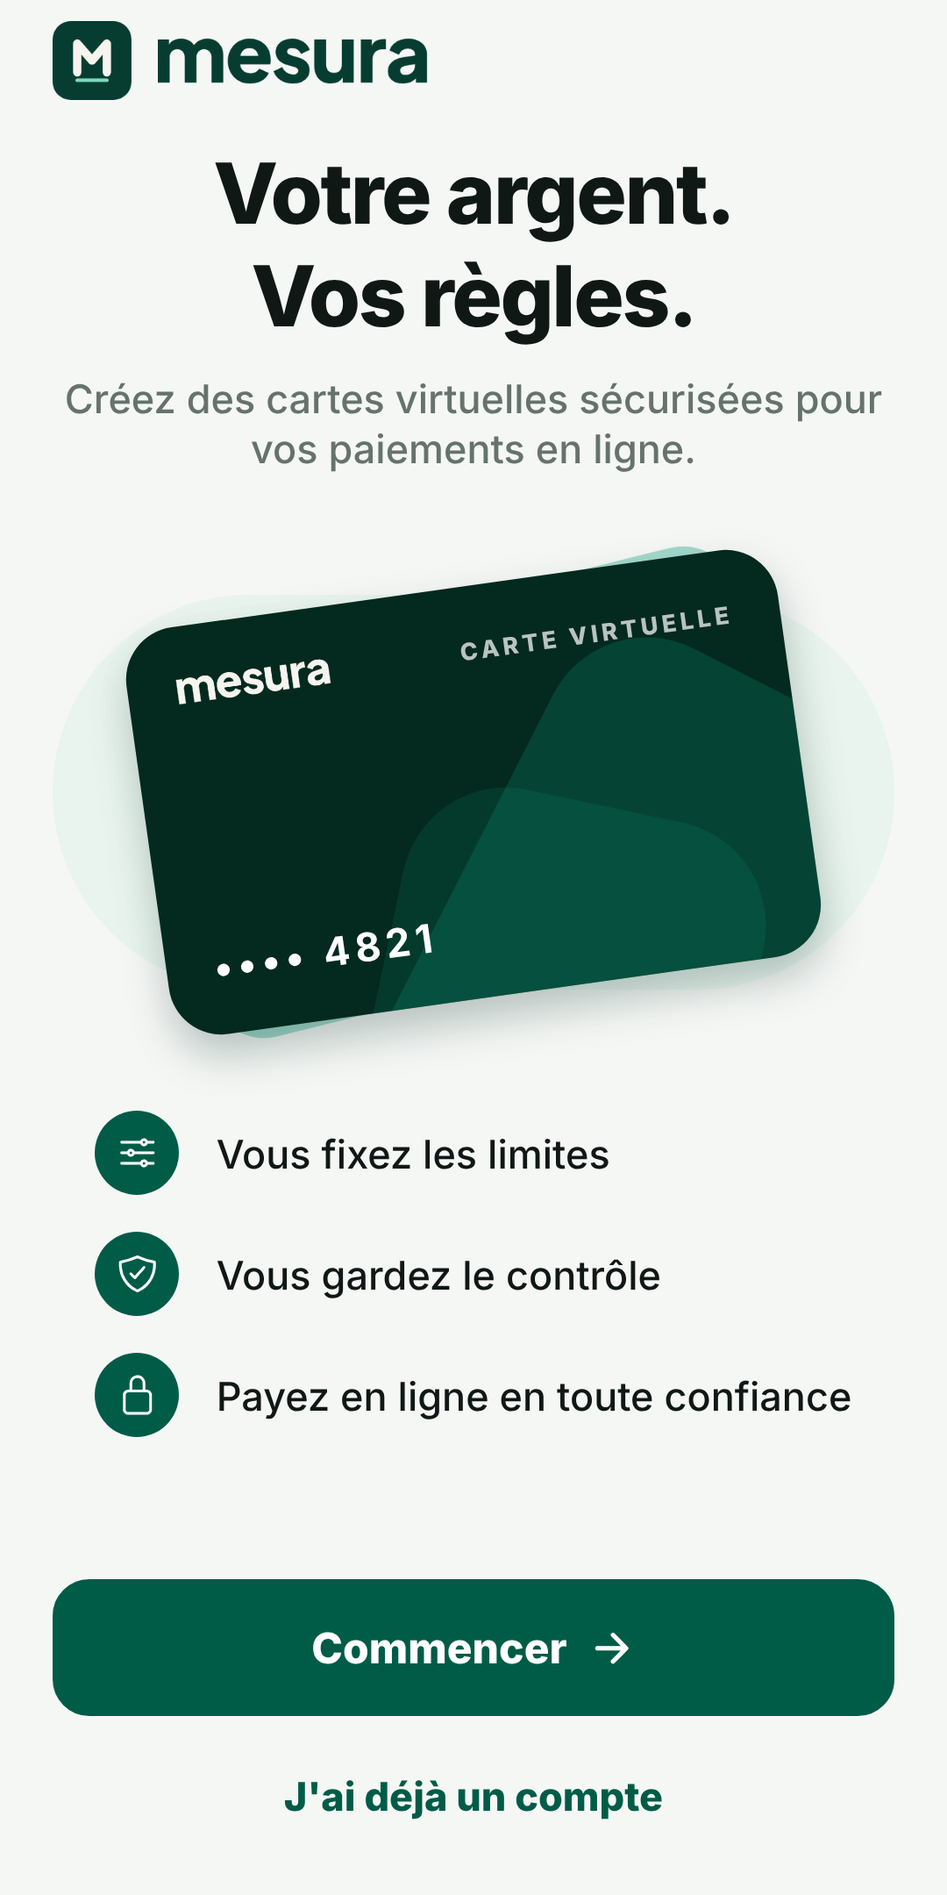
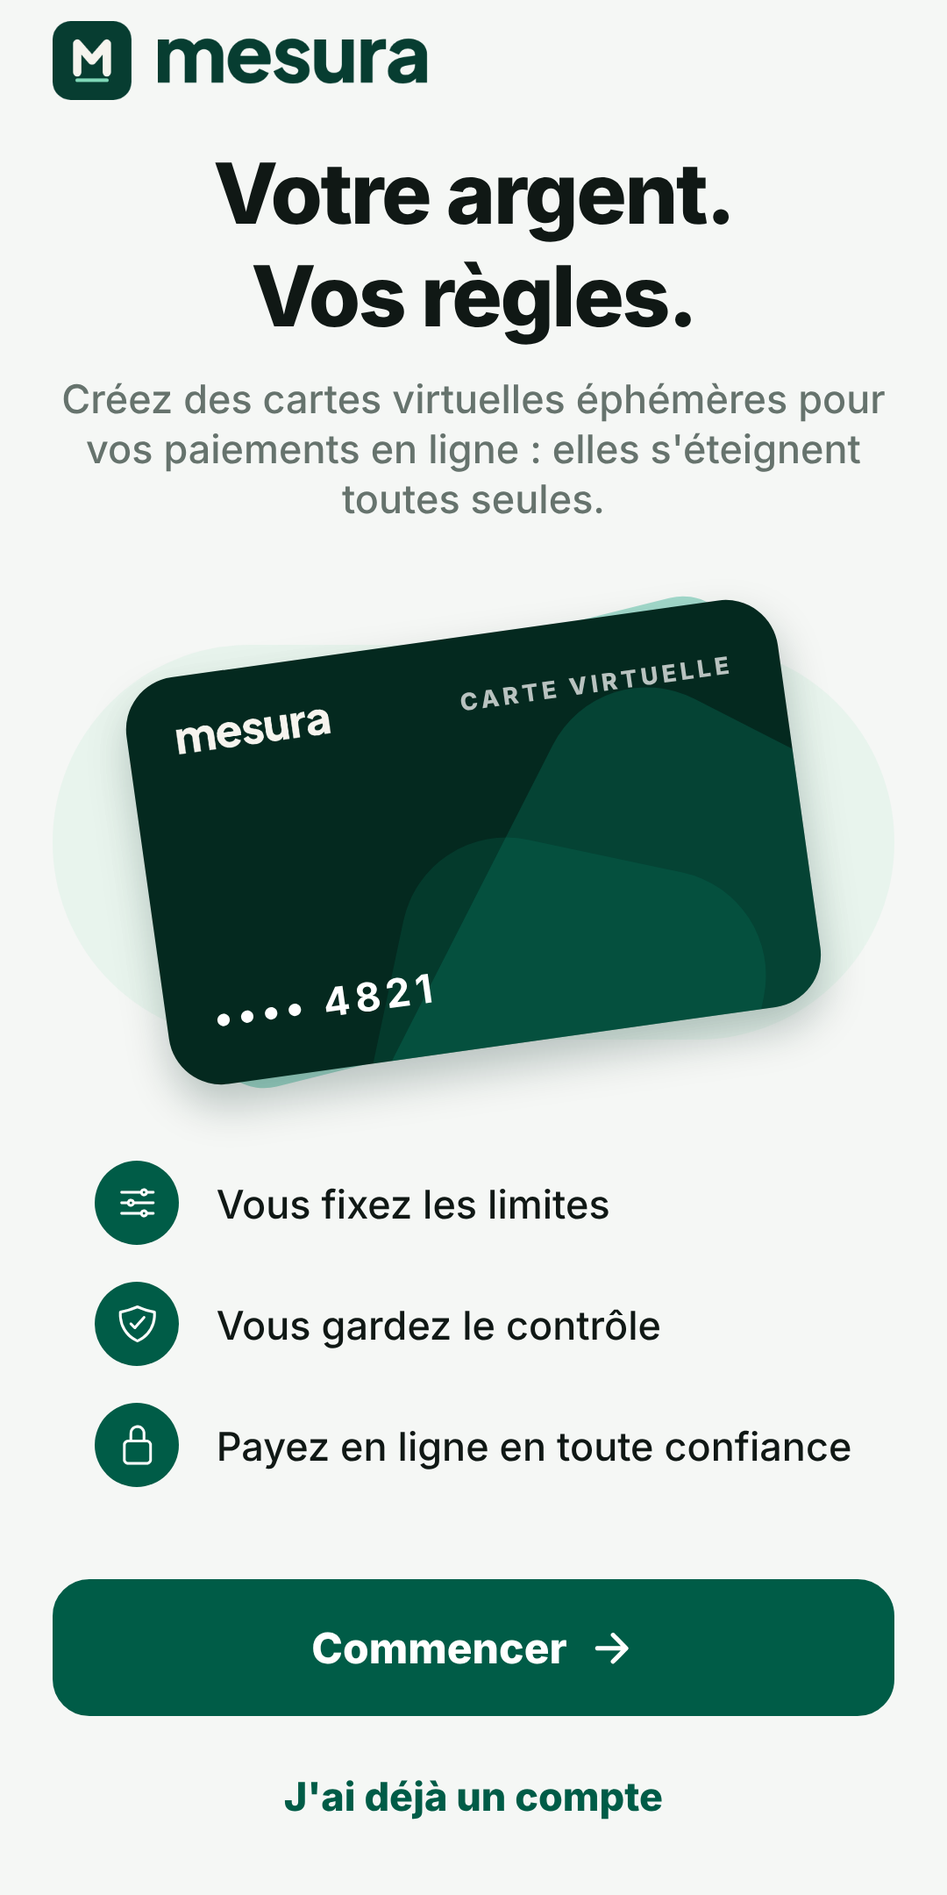
feat: store screenshots for 0.7.4 and a richer admin page
Play Store screenshots
- Re-shot from the 0.7.4 app with a fresh demo account (today's activity, three active
  cards). The 4th screenshot is now the duration step, which says the card switches off on
  its own; the amount step is dropped to stay at 8.

Admin page (/admin/inscriptions)
- Key figures: testers against Google Play's goal of 12 (progress bar), waitlist, sign-ups
  over 7 days, average rating; a bar chart of sign-ups per day over 14 days (Lomé time).
- Search by name, number, Gmail or feedback text (plain GET form, no JavaScript).
- Each person has a prefilled WhatsApp message: thank a tester, or invite a waitlist sign-up
  to test; numbers are shown as +228 90 12 34 56.
- Download as CSV (/admin/inscriptions.csv, same credentials): semicolons and a BOM so Excel
  shows accents, cells that could run as formulas are neutralized.

Claude-Session: https://claude.ai/code/session_01C5ZcWsmJyJc4V3Hd67BH4M

Changed region(s): [[0.0611, 0.1861, 0.9167, 0.7755], [0.0917, 0.5894, 0.1833, 0.8065]]

diff --git a/apps/api/src/community/admin.pages.ts b/apps/api/src/community/admin.pages.ts
@@ -17,53 +17,211 @@ export interface FeedbackRow {
   createdAt: Date;
 }
 
+export interface AdminView {
+  signups: SignupRow[];
+  feedback: FeedbackRow[];
+  /** Search typed in the page's filter box (name, number, Gmail or feedback text). */
+  query?: string;
+  /** Public base URL of the pages (https://…), used in the WhatsApp messages. */
+  baseUrl: string;
+  now?: Date;
+}
+
+/** Google Play asks a new personal developer account for at least 12 testers during 14 days. */
+export const PLAY_TESTERS_GOAL = 12;
+const DAY_MS = 24 * 60 * 60 * 1000;
+const TZ = 'Africa/Lome';
+
 const date = (d: Date) =>
-  d.toLocaleString('fr-FR', { timeZone: 'Africa/Lome', day: '2-digit', month: '2-digit', hour: '2-digit', minute: '2-digit' });
+  d.toLocaleString('fr-FR', { timeZone: TZ, day: '2-digit', month: '2-digit', hour: '2-digit', minute: '2-digit' });
+const dayKey = (d: Date) => d.toLocaleDateString('fr-CA', { timeZone: TZ });
+const dayLabel = (d: Date) => d.toLocaleDateString('fr-FR', { timeZone: TZ, day: '2-digit', month: '2-digit' });
 
-const waLink = (phone: string) => `<a href="https://wa.me/${phone.replace('+', '')}">${escape(phone)}</a>`;
+const waUrl = (phone: string, text?: string) =>
+  `https://wa.me/${phone.replace('+', '')}${text ? `?text=${encodeURIComponent(text)}` : ''}`;
 
-/** Private overview of sign-ups and feedback, for the publisher (behind ADMIN_PASSWORD). */
-export function adminPage(signups: SignupRow[], feedback: FeedbackRow[]): string {
-  const testers = signups.filter((s) => s.tester);
-  const waitlist = signups.filter((s) => !s.tester);
-  const gmails = testers.map((t) => t.gmail).filter((g): g is string => !!g);
+const matches = (query: string, ...fields: (string | null)[]) =>
+  fields.some((f) => f?.toLowerCase().includes(query));
+
+/** +22890123456 → +228 90 12 34 56 */
+const formatPhone = (phone: string) => phone.replace(/^\+228(\d{2})(\d{2})(\d{2})(\d{2})$/, '+228 $1 $2 $3 $4');
+
+const stars = (n: number) => `${'★'.repeat(n)}${'☆'.repeat(5 - n)}`;
+
+const STYLE = `<style>
+  main { max-width: 860px; }
+  .top { display: flex; flex-wrap: wrap; justify-content: space-between; align-items: center; gap: 12px; }
+  .tabs { display: flex; flex-wrap: wrap; gap: 8px; margin: 18px 0 8px; }
+  .tabs a { background: var(--card); border-radius: 999px; padding: 6px 14px; text-decoration: none; font-weight: 600; font-size: 14px; }
+  .tiles { display: grid; grid-template-columns: repeat(4, 1fr); gap: 12px; margin-top: 18px; }
+  .tile { background: var(--card); border-radius: 14px; padding: 14px 16px; }
+  .tile b { display: block; font-size: 28px; line-height: 1.1; }
+  .tile span { color: var(--muted); font-size: 14px; }
+  .bar { height: 8px; border-radius: 99px; background: color-mix(in srgb, var(--muted) 25%, transparent); margin-top: 10px; overflow: hidden; }
+  .bar i { display: block; height: 100%; background: var(--accent); border-radius: 99px; }
+  .chart { display: flex; align-items: flex-end; gap: 4px; height: 90px; background: var(--card); border-radius: 14px; padding: 12px 12px 26px; position: relative; }
+  .chart div { flex: 1; display: flex; flex-direction: column; justify-content: flex-end; align-items: center; height: 100%; position: relative; }
+  .chart i { display: block; width: 100%; max-width: 26px; background: var(--accent); border-radius: 4px 4px 0 0; min-height: 2px; }
+  .chart em { position: absolute; bottom: -20px; font-size: 10px; font-style: normal; color: var(--muted); white-space: nowrap; }
+  .chart small { font-size: 11px; font-weight: 700; margin-bottom: 2px; }
+  .search { display: flex; gap: 8px; margin-top: 18px; background: none; padding: 0; }
+  .search input { flex: 1; min-width: 0; box-sizing: border-box; padding: 10px 12px; font: inherit; color: var(--fg); background: var(--card); border: 1px solid var(--muted); border-radius: 10px; }
+  form.search .btn { padding: 10px 16px; width: auto; margin-top: 0; }
+  .person { background: var(--card); border-radius: 14px; padding: 14px 16px; margin-bottom: 10px; }
+  .person .head { display: flex; justify-content: space-between; gap: 8px; flex-wrap: wrap; }
+  .person .meta { color: var(--muted); font-size: 14px; }
+  .actions { display: flex; flex-wrap: wrap; gap: 8px; margin-top: 10px; }
+  .chipbtn { display: inline-block; border: 1px solid var(--accent); color: var(--accent); border-radius: 999px; padding: 5px 12px;
+    font-size: 14px; font-weight: 600; text-decoration: none; }
+  .tag { display: inline-block; background: color-mix(in srgb, var(--accent) 15%, transparent); color: var(--accent); border-radius: 6px;
+    padding: 1px 8px; font-size: 12px; font-weight: 700; margin: 4px 4px 0 0; }
+  .svc { display: grid; grid-template-columns: 170px 1fr 48px; gap: 10px; align-items: center; margin-bottom: 8px; font-size: 15px; }
+  textarea { box-sizing: border-box; width: 100%; padding: 10px 12px; font: inherit; color: var(--fg); background: var(--card);
+    border: 1px solid var(--muted); border-radius: 10px; }
+  .empty { color: var(--muted); background: var(--card); border-radius: 14px; padding: 14px 16px; }
+  @media (max-width: 640px) { .tiles { grid-template-columns: repeat(2, 1fr); } .svc { grid-template-columns: 120px 1fr 40px; } }
+</style>`;
+
+/** Private overview of sign-ups and feedback, for the publisher (behind ADMIN_PASSWORD). No JavaScript (CSP). */
+export function adminPage(view: AdminView): string {
+  const now = view.now ?? new Date();
+  const query = (view.query ?? '').trim().toLowerCase().slice(0, 60);
+  const allTesters = view.signups.filter((s) => s.tester);
+  const allWaitlist = view.signups.filter((s) => !s.tester);
+  const gmails = allTesters.map((t) => t.gmail).filter((g): g is string => !!g);
+
+  const testers = query ? allTesters.filter((s) => matches(query, s.name, s.phone, s.gmail)) : allTesters;
+  const waitlist = query ? allWaitlist.filter((s) => matches(query, s.name, s.phone)) : allWaitlist;
+  const feedback = query
+    ? view.feedback.filter((f) => matches(query, f.name, f.contact, f.message))
+    : view.feedback;
+
+  const rated = view.feedback.filter((f) => f.rating !== null);
+  const average = rated.length ? rated.reduce((sum, f) => sum + (f.rating ?? 0), 0) / rated.length : null;
+  const lastWeek = view.signups.filter((s) => now.getTime() - s.createdAt.getTime() < 7 * DAY_MS).length;
+  const goal = Math.min(100, Math.round((allTesters.length / PLAY_TESTERS_GOAL) * 100));
+
+  // Sign-ups per day over the last 14 days (Lomé time).
+  const days = Array.from({ length: 14 }, (_, i) => new Date(now.getTime() - (13 - i) * DAY_MS));
+  const perDay = new Map<string, number>();
+  for (const s of view.signups) perDay.set(dayKey(s.createdAt), (perDay.get(dayKey(s.createdAt)) ?? 0) + 1);
+  const peak = Math.max(1, ...days.map((d) => perDay.get(dayKey(d)) ?? 0));
+
   const counts = new Map<string, number>();
-  for (const s of signups) for (const sv of s.services) counts.set(sv, (counts.get(sv) ?? 0) + 1);
+  for (const s of view.signups) for (const sv of s.services) counts.set(sv, (counts.get(sv) ?? 0) + 1);
   const services = [...counts.entries()].sort((a, b) => b[1] - a[1]);
 
-  const person = (s: SignupRow) => `<li><strong>${escape(s.name)}</strong> · ${waLink(s.phone)}${
-    s.gmail ? ` · ${escape(s.gmail)}` : ''
-  }<br><span class="muted">${date(s.createdAt)}${s.services.length ? ` · ${s.services.map(escape).join(', ')}` : ''}</span></li>`;
+  const testersUrl = `${view.baseUrl}/testeurs`;
+  const thankTester = (s: SignupRow) =>
+    `Bonjour ${s.name}, merci de t'être inscrit comme testeur de Mesura 🙏 Je t'envoie l'invitation Google Play dès que le test est ouvert. En attendant, tu peux installer la démo ici : ${testersUrl}`;
+  const inviteWaitlist = (s: SignupRow) =>
+    `Bonjour ${s.name}, merci de t'être inscrit sur la liste d'attente de Mesura 🙏 Tu veux essayer la version de démonstration et nous donner ton avis ? Inscris-toi comme testeur ici (2 min) : ${testersUrl}`;
+
+  const person = (s: SignupRow, message: string, cta: string) => `<div class="person">
+  <div class="head"><strong>${escape(s.name)}</strong><span class="meta">${date(s.createdAt)}</span></div>
+  <div class="meta">${escape(formatPhone(s.phone))}${s.gmail ? ` · ${escape(s.gmail)}` : ''}</div>
+  ${s.services.length ? `<div>${s.services.map((sv) => `<span class="tag">${escape(sv)}</span>`).join('')}</div>` : ''}
+  <div class="actions"><a class="chipbtn" href="${waUrl(s.phone, message)}">${cta}</a><a class="chipbtn" href="${waUrl(s.phone)}">Ouvrir WhatsApp</a></div>
+</div>`;
+
+  const list = (rows: string[], empty: string) => (rows.length ? rows.join('\n') : `<p class="empty">${empty}</p>`);
+  const noMatch = query ? 'Aucun résultat pour cette recherche.' : '';
 
   return page(
     'Administration',
-    `<h1>Inscriptions</h1>
-<p class="muted">Page privée. ${testers.length} testeur(s), ${waitlist.length} sur la liste d'attente, ${feedback.length} avis.</p>
+    `${STYLE}
+<div class="top"><h1>Inscriptions</h1><a class="btn" href="/admin/inscriptions.csv">Télécharger (Excel / CSV)</a></div>
+<p class="muted">Page privée · mise à jour à chaque ouverture · heure de Lomé</p>
 
-<h2>Adresses Gmail des testeurs (${gmails.length})</h2>
-<p class="muted">À copier dans la Play Console : Tests → Test fermé → Testeurs → liste d'adresses e-mail.</p>
+<div class="tiles">
+  <div class="tile"><b>${allTesters.length}<span> / ${PLAY_TESTERS_GOAL}</span></b><span>testeurs (objectif Google Play)</span>
+    <div class="bar"><i style="width:${goal}%"></i></div></div>
+  <div class="tile"><b>${allWaitlist.length}</b><span>sur la liste d'attente</span></div>
+  <div class="tile"><b>${lastWeek}</b><span>inscriptions sur 7 jours</span></div>
+  <div class="tile"><b>${average === null ? '—' : average.toFixed(1).replace('.', ',')}</b><span>note moyenne (${view.feedback.length} avis)</span></div>
+</div>
+
+<h2>Inscriptions par jour (14 derniers jours)</h2>
+<div class="chart" role="img" aria-label="Inscriptions par jour sur les 14 derniers jours">
+${days
+  .map((d) => {
+    const n = perDay.get(dayKey(d)) ?? 0;
+    return `<div><small>${n || ''}</small><i style="height:${Math.round((n / peak) * 100)}%"></i><em>${dayLabel(d).slice(0, 2)}</em></div>`;
+  })
+  .join('\n')}
+</div>
+
+<form class="search" method="get" action="/admin/inscriptions">
+  <input type="search" name="q" value="${escape(view.query ?? '')}" placeholder="Rechercher un nom, un numéro, un Gmail…" aria-label="Rechercher">
+  <button class="btn" type="submit">Rechercher</button>
+</form>
+${query ? `<p class="muted">Résultats pour « ${escape(view.query ?? '')} » · <a href="/admin/inscriptions">tout afficher</a></p>` : ''}
+
+<nav class="tabs"><a href="#testeurs">Testeurs (${testers.length})</a><a href="#gmail">Adresses Gmail</a>
+<a href="#avis">Avis (${feedback.length})</a><a href="#attente">Liste d'attente (${waitlist.length})</a><a href="#services">Services</a></nav>
+
+<h2 id="gmail">Adresses Gmail des testeurs (${gmails.length})</h2>
+<p class="muted">À copier dans la Play Console : Tests → Test fermé → Testeurs → liste d'adresses e-mail.
+Appuyez longuement dans le cadre puis « Tout sélectionner » et « Copier ».</p>
 <textarea rows="4" readonly>${gmails.map(escape).join(', ')}</textarea>
 
-<h2>Testeurs (${testers.length})</h2>
-${testers.length ? `<ul>${testers.map(person).join('\n')}</ul>` : '<p class="muted">Aucun pour l’instant.</p>'}
+<h2 id="testeurs">Testeurs (${testers.length})</h2>
+${list(
+  testers.map((s) => person(s, thankTester(s), 'Remercier sur WhatsApp')),
+  noMatch || 'Aucun testeur pour l’instant. Partagez la page /testeurs.',
+)}
 
-<h2>Avis (${feedback.length})</h2>
+<h2 id="avis">Avis (${feedback.length})</h2>
+${list(
+  feedback.map(
+    (f) => `<div class="person">
+  <div class="head"><strong>${f.rating ? stars(f.rating) : 'Sans note'}</strong><span class="meta">${date(f.createdAt)}</span></div>
+  <p>${escape(f.message)}</p>
+  ${f.name || f.contact ? `<div class="meta">${[f.name, f.contact].filter(Boolean).map((v) => escape(v as string)).join(' · ')}</div>` : ''}
+</div>`,
+  ),
+  noMatch || 'Aucun avis pour l’instant.',
+)}
+
+<h2 id="attente">Liste d'attente (${waitlist.length})</h2>
+${list(
+  waitlist.map((s) => person(s, inviteWaitlist(s), 'Proposer de tester')),
+  noMatch || 'Aucune inscription pour l’instant. Partagez la page /liste-attente.',
+)}
+
+<h2 id="services">Services cités</h2>
 ${
-  feedback.length
-    ? `<ul>${feedback
+  services.length
+    ? services
         .map(
-          (f) => `<li>${f.rating ? `${'★'.repeat(f.rating)}${'☆'.repeat(5 - f.rating)} ` : ''}${escape(f.message)}<br><span class="muted">${date(
-            f.createdAt,
-          )}${f.name ? ` · ${escape(f.name)}` : ''}${f.contact ? ` · ${escape(f.contact)}` : ''}</span></li>`,
+          ([s, n]) =>
+            `<div class="svc"><span>${escape(s)}</span><div class="bar" style="margin:0"><i style="width:${Math.round(
+              (n / view.signups.length) * 100,
+            )}%"></i></div><b>${n}</b></div>`,
         )
-        .join('\n')}</ul>`
-    : '<p class="muted">Aucun pour l’instant.</p>'
+        .join('\n')
+    : '<p class="empty">—</p>'
+}`,
+  );
 }
 
-<h2>Liste d'attente (${waitlist.length})</h2>
-${waitlist.length ? `<ul>${waitlist.map(person).join('\n')}</ul>` : '<p class="muted">Aucune inscription pour l’instant.</p>'}
+/**
+ * Neutralizes values a spreadsheet would run as a formula: anything starting with = @ tab or CR, or with
+ * + / - followed by something other than digits and spaces (a phone number such as +228 90 … stays as is).
+ */
+const csvCell = (v: string) => {
+  const safe = /^[=@\t\r]/.test(v) || /^[+-](?![\d ]+$)/.test(v) ? `'${v}` : v;
+  return `"${safe.replace(/"/g, '""')}"`;
+};
 
-<h2>Services cités</h2>
-${services.length ? `<ul>${services.map(([s, n]) => `<li>${escape(s)} : ${n}</li>`).join('')}</ul>` : '<p class="muted">—</p>'}`,
-  );
+/** All sign-ups and feedback as one CSV (semicolon-separated, UTF-8 with BOM so Excel shows accents). */
+export function adminCsv(signups: SignupRow[], feedback: FeedbackRow[]): string {
+  const rows: string[][] = [['Type', 'Date', 'Prénom', 'WhatsApp', 'Gmail', 'Services', 'Note', 'Avis', 'Contact']];
+  for (const s of signups) {
+    rows.push([s.tester ? 'Testeur' : "Liste d'attente", date(s.createdAt), s.name, formatPhone(s.phone), s.gmail ?? '', s.services.join(', '), '', '', '']);
+  }
+  for (const f of feedback) {
+    rows.push(['Avis', date(f.createdAt), f.name ?? '', '', '', '', f.rating ? String(f.rating) : '', f.message, f.contact ?? '']);
+  }
+  return `${rows.map((r) => r.map(csvCell).join(';')).join('\r\n')}\r\n`;
 }

diff --git a/apps/api/src/community/admin.controller.spec.ts b/apps/api/src/community/admin.controller.spec.ts
@@ -1,5 +1,5 @@
 import { isAdmin } from './admin.controller';
-import { adminPage } from './admin.pages';
+import { adminCsv, adminPage, type FeedbackRow, type SignupRow } from './admin.pages';
 
 const basic = (s: string) => `Basic ${Buffer.from(s).toString('base64')}`;
 
@@ -18,19 +18,45 @@ describe('admin page', () => {
     expect(isAdmin(basic('admin:'), '')).toBe(false);
   });
 
+  const at = new Date('2026-10-22T10:00:00Z');
+  const ama: SignupRow = { name: 'Ama', phone: '+22890123456', services: ['Netflix'], gmail: 'ama@gmail.com', tester: true, createdAt: at };
+  const signups: SignupRow[] = [
+    ama,
+    { name: 'Kofi', phone: '+22891000000', services: [], gmail: 'kofi@gmail.com', tester: true, createdAt: at },
+    { name: '<b>x</b>', phone: '+22892000000', services: ['Netflix'], gmail: null, tester: false, createdAt: at },
+  ];
+  const feedback: FeedbackRow[] = [{ name: null, contact: null, rating: 4, message: '<script>bad</script>', createdAt: at }];
+  const view = { signups, feedback, baseUrl: 'https://mesura.example', now: new Date('2026-10-23T10:00:00Z') };
+
   it('lists tester Gmail addresses for the Play Console and escapes user text', () => {
-    const at = new Date('2026-10-22T10:00:00Z');
-    const html = adminPage(
-      [
-        { name: 'Ama', phone: '+22890123456', services: ['Netflix'], gmail: 'ama@gmail.com', tester: true, createdAt: at },
-        { name: 'Kofi', phone: '+22891000000', services: [], gmail: 'kofi@gmail.com', tester: true, createdAt: at },
-        { name: '<b>x</b>', phone: '+22892000000', services: [], gmail: null, tester: false, createdAt: at },
-      ],
-      [{ name: null, contact: null, rating: 4, message: '<script>bad</script>', createdAt: at }],
-    );
+    const html = adminPage(view);
     expect(html).toContain('ama@gmail.com, kofi@gmail.com');
     expect(html).toContain('https://wa.me/22890123456');
     expect(html).not.toContain('<script>bad');
     expect(html).not.toContain('<b>x</b>');
+  });
+
+  it('shows progress towards the 12 testers, the average rating and a prefilled WhatsApp invitation', () => {
+    const html = adminPage(view);
+    expect(html).toContain('2<span> / 12</span>');
+    expect(html).toContain('4,0');
+    expect(html).toContain(encodeURIComponent('https://mesura.example/testeurs'));
+  });
+
+  it('filters by the search query without touching the Gmail list', () => {
+    const html = adminPage({ ...view, query: 'kofi' });
+    expect(html).toContain('Testeurs (1)');
+    expect(html).toContain("Liste d'attente (0)");
+    expect(html).toContain('ama@gmail.com, kofi@gmail.com');
+  });
+
+  it('exports a CSV that Excel opens with accents and that cannot run formulas', () => {
+    const csv = adminCsv([{ ...ama, name: '=HYPERLINK("x")' }], feedback);
+    expect(csv.startsWith('\uFEFF')).toBe(true);
+    expect(csv).toContain('"Testeur"');
+    expect(csv).toContain(`"'=HYPERLINK(""x"")"`);
+    expect(csv).toContain('"<script>bad</script>"');
+    expect(csv).toContain('"+228 90 12 34 56"');
+    expect(adminCsv([{ ...ama, name: '+SUM(A1)' }], [])).toContain(`"'+SUM(A1)"`);
   });
 });

diff --git a/apps/api/src/community/admin.controller.ts b/apps/api/src/community/admin.controller.ts
@@ -1,11 +1,11 @@
 import { timingSafeEqual } from 'node:crypto';
-import { Controller, Get, Header, Headers, Inject, NotFoundException, Res, UnauthorizedException } from '@nestjs/common';
+import { Controller, Get, Header, Headers, Inject, NotFoundException, Query, Req, Res, UnauthorizedException } from '@nestjs/common';
 import { Throttle } from '@nestjs/throttler';
-import type { Response } from 'express';
+import type { Request, Response } from 'express';
 import { Public } from '../common/auth-user';
 import { APP_ENV, type AppEnv } from '../config/env';
 import { PrismaService } from '../prisma/prisma.service';
-import { adminPage } from './admin.pages';
+import { adminCsv, adminPage } from './admin.pages';
 
 const ADMIN_USER = 'admin';
 
@@ -31,20 +31,52 @@ export class AdminController {
   ) {}
 
   @Get('inscriptions')
-  @Throttle({ default: { limit: 10, ttl: 60_000 } })
+  @Throttle({ default: { limit: 20, ttl: 60_000 } })
   @Header('Content-Type', 'text/html; charset=utf-8')
   @Header('Cache-Control', 'no-store')
   @Header('X-Robots-Tag', 'noindex, nofollow')
-  async signups(@Headers('authorization') authorization: string | undefined, @Res({ passthrough: true }) res: Response): Promise<string> {
+  async signups(
+    @Headers('authorization') authorization: string | undefined,
+    @Query('q') query: unknown,
+    @Req() req: Request,
+    @Res({ passthrough: true }) res: Response,
+  ): Promise<string> {
+    this.assertAdmin(authorization, res);
+    const { signups, feedback } = await this.load();
+    return adminPage({
+      signups,
+      feedback,
+      query: typeof query === 'string' ? query : undefined,
+      baseUrl: `${req.protocol}://${req.get('host') ?? 'localhost'}`,
+    });
+  }
+
+  /** Same data as a spreadsheet; the browser reuses the credentials typed for the page. */
+  @Get('inscriptions.csv')
+  @Throttle({ default: { limit: 10, ttl: 60_000 } })
+  @Header('Content-Type', 'text/csv; charset=utf-8')
+  @Header('Content-Disposition', 'attachment; filename="mesura-inscriptions.csv"')
+  @Header('Cache-Control', 'no-store')
+  @Header('X-Robots-Tag', 'noindex, nofollow')
+  async signupsCsv(@Headers('authorization') authorization: string | undefined, @Res({ passthrough: true }) res: Response): Promise<string> {
+    this.assertAdmin(authorization, res);
+    const { signups, feedback } = await this.load();
+    return adminCsv(signups, feedback);
+  }
+
+  private assertAdmin(authorization: string | undefined, res: Response): void {
     if (!this.env.ADMIN_PASSWORD) throw new NotFoundException();
     if (!isAdmin(authorization, this.env.ADMIN_PASSWORD)) {
       res.setHeader('WWW-Authenticate', 'Basic realm="Mesura admin", charset="UTF-8"');
       throw new UnauthorizedException();
     }
+  }
+
+  private async load() {
     const [signups, feedback] = await Promise.all([
       this.prisma.waitlistEntry.findMany({ orderBy: { createdAt: 'desc' } }),
       this.prisma.testerFeedback.findMany({ orderBy: { createdAt: 'desc' } }),
     ]);
-    return adminPage(signups, feedback);
+    return { signups, feedback };
   }
 }

diff --git a/docs/play-store/README.md b/docs/play-store/README.md
@@ -100,7 +100,7 @@ Version actuelle : **0.7.4** (versionCode **12**). Chaque nouvel envoi sur Play 
 |---|---|
 | `icon-512.png` | Icône de l'application (512 × 512) |
 | `feature-graphic.png` | Image de présentation (1024 × 500) |
-| `01-bienvenue.png` … `08-infos-carte.png` | Captures téléphone (1080 × 2160), 2 à 8 requises : envoyez les 8, dans l'ordre |
+| `01-bienvenue.png` … `08-infos-carte.png` | Captures téléphone (1080 × 2160) de la version 0.7.4, 2 à 8 requises : envoyez les 8, dans l'ordre (la 4ᵉ montre l'étape « Durée » : la carte s'éteint toute seule) |
 
 ## 4. Questionnaires de la Play Console
 
